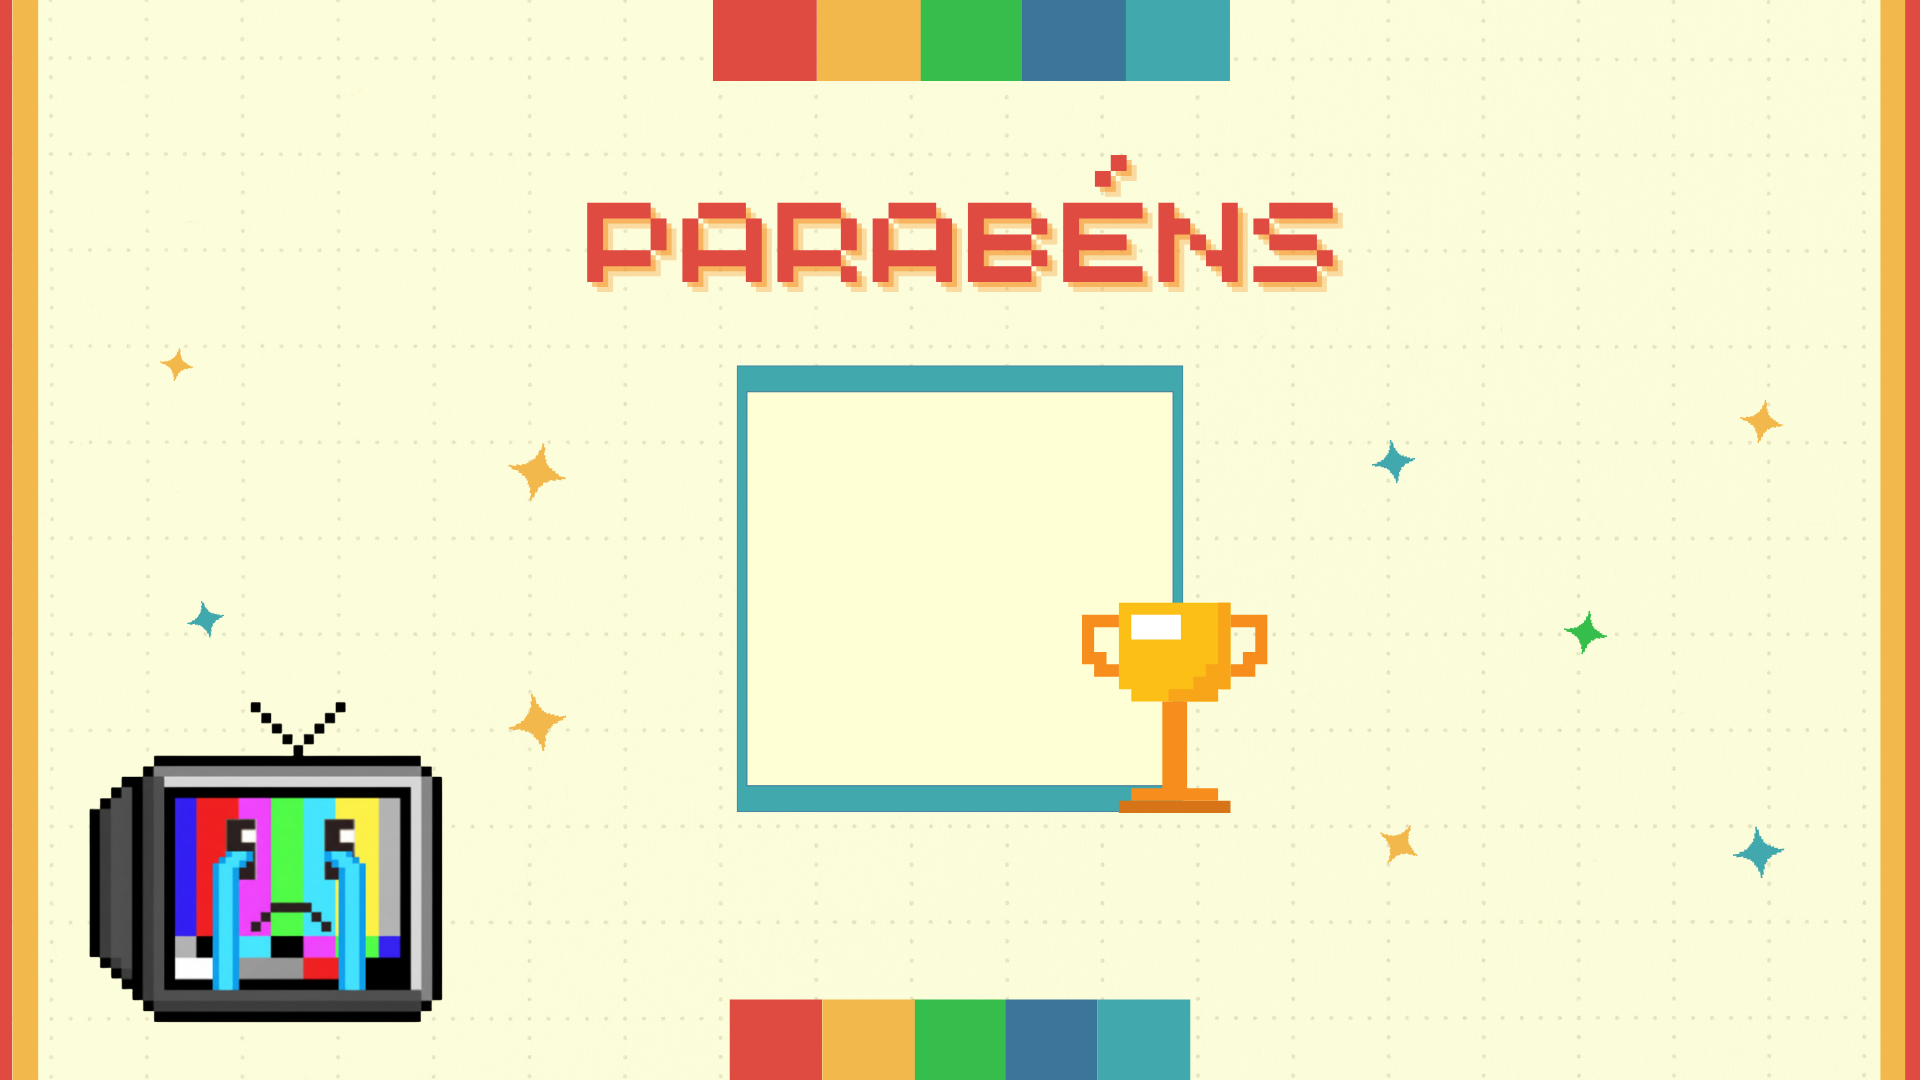
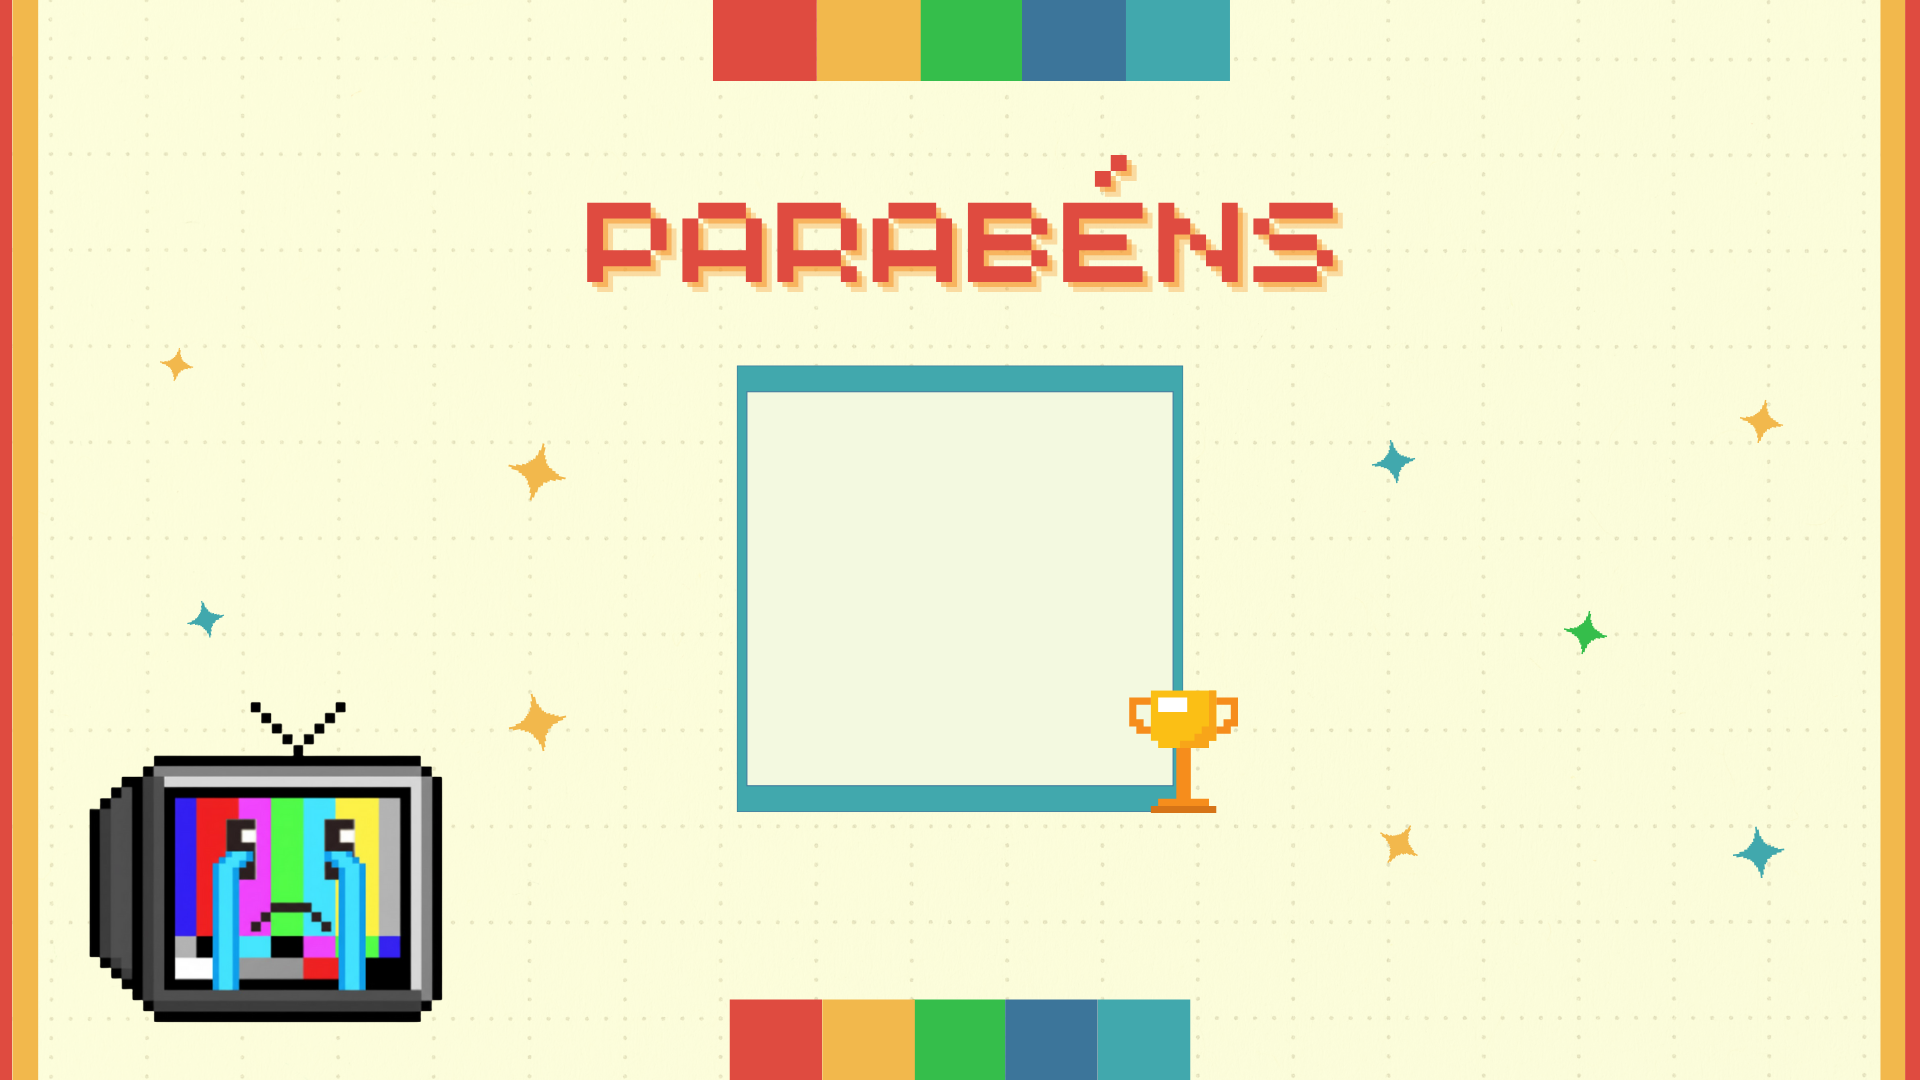
feat: Implementa Bot, placar e telas de fim de jogo
Adiciona um adversário Bot com memória funcional em todos os modos.

Cria um fluxo de telas de resultado para vitória, derrota e empate.

Passa os dados do jogador (nome e avatar) entre as telas.

Inclui logs de depuração no terminal.

Changed region(s): [[0.5625, 0.55, 0.6875, 0.7639]]

diff --git a/JogoPokemon.py b/JogoPokemon.py
@@ -4,13 +4,13 @@ import random
 import time
 import os
 from bot_memoria import BotMemoria
+from final import exibir_final 
 
 def exibir_jogo_pokemon(screen, nome_jogador, avatar_path):
     pygame.display.set_caption("Jogo Pokémon")
 
     pasta_cartas = os.path.join(os.path.dirname(__file__), 'CartasPokemon')
 
-    
     imagens_cartas_com_nomes = []
     for filename in os.listdir(pasta_cartas):
         if filename.endswith('.png') and 'costacartas' not in filename:
@@ -22,23 +22,19 @@ def exibir_jogo_pokemon(screen, nome_jogador, avatar_path):
         pygame.quit()
         sys.exit()
 
-    
     imagens_selecionadas = random.sample(imagens_cartas_com_nomes, 6)
     
     background = pygame.image.load('Imagens/fundoT.png')
     background = pygame.transform.smoothscale(background, screen.get_size())
     costas_carta = pygame.image.load(os.path.join(pasta_cartas, 'costacartas.png'))
 
-  
     cartas_com_ids = list(enumerate(imagens_selecionadas))
     
-   
     print("--- Mapeamento de Cartas da Partida ---")
     for id_carta, (nome_arquivo, _) in cartas_com_ids:
         print(f"ID {id_carta} -> {nome_arquivo}")
     print("------------------------------------")
 
-   
     imagens_para_jogo = [img for _, (_, img) in cartas_com_ids]
     cartas_para_duplicar = list(enumerate(imagens_para_jogo))
 
@@ -56,7 +52,6 @@ def exibir_jogo_pokemon(screen, nome_jogador, avatar_path):
     espaco_x = (largura_tela - (colunas * largura_carta_fixa)) // (colunas + 1)
     espaco_y = (altura_tela - (linhas * altura_carta_fixa)) // (linhas + 1)
 
- 
     cartas_viradas = []
     cartas_acertadas = []
     pares_jogador = 0
@@ -76,14 +71,7 @@ def exibir_jogo_pokemon(screen, nome_jogador, avatar_path):
                     screen.blit(cartas[index][1], (x, y))
                 else:
                     screen.blit(costas_carta, (x, y))
-        fonte_placar = pygame.font.Font('Fontes/arcade_gamer.ttf', 30)
-        placar_jogador = fonte_placar.render(f"Jogador: {pares_jogador}", True, (255,255,255))
-        placar_bot = fonte_placar.render(f"Bot: {pares_bot}", True, (255,255,255))
-        screen.blit(placar_jogador, (20, 20))
-        screen.blit(placar_bot, (largura_tela - placar_bot.get_width() - 20, 20))
 
-
-  
     while True:
         if turno_jogador:
             for event in pygame.event.get():
@@ -140,13 +128,21 @@ def exibir_jogo_pokemon(screen, nome_jogador, avatar_path):
         pygame.display.flip()
 
         if len(cartas_acertadas) == len(cartas):
-            elapsed_time = time.time() - start_time
-            print(f"Você venceu! Tempo total: {elapsed_time:.2f} segundos")
+            print(f"Fim do jogo!")
             print(f"Jogador: {pares_jogador} pares")
             print(f"Bot: {pares_bot} pares")
-            pygame.time.wait(3000)
-            pygame.quit()
-            sys.exit()
+
+            if pares_jogador > pares_bot:
+                nome_vencedor = nome_jogador
+                avatar_vencedor_path = avatar_path
+            elif pares_bot > pares_jogador:
+                nome_vencedor = "O melhor bot"
+                avatar_vencedor_path = None
+            else:
+                nome_vencedor = "Empate!"
+                avatar_vencedor_path = None
+
+            exibir_final(screen, nome_vencedor, avatar_vencedor_path)
 
 if __name__ == '__main__':
     pygame.init()

diff --git a/final.py b/final.py
@@ -6,37 +6,50 @@ def exibir_final(screen, nome_vencedor, avatar_vencedor_path):
 
     largura_tela, altura_tela = screen.get_size()
 
+  
+    if nome_vencedor == "O melhor bot":
+        caminho_background = 'Imagens/tela_derrota.png'
+    elif nome_vencedor == "Empate!":
+        caminho_background = 'Imagens/tela_empate.png'
+    else:
+        caminho_background = 'Imagens/parabens_final.png'
+
+    
     try:
-        background = pygame.image.load('Imagens/parabens_final.png')
+        background = pygame.image.load(caminho_background)
         background = pygame.transform.smoothscale(background, (largura_tela, altura_tela))
     except pygame.error:
-        print("Erro ao carregar a imagem 'Imagens/parabens_final.png'")
+        print(f"Erro ao carregar a imagem de fundo: {caminho_background}")
         background = pygame.Surface((largura_tela, altura_tela))
         background.fill((253, 246, 227))
 
     screen.blit(background, (0, 0))
 
-    if avatar_vencedor_path:
-        try:
-            avatar_img = pygame.image.load(avatar_vencedor_path)
-            tamanho_avatar = int(largura_tela * 0.18)
-            avatar_img = pygame.transform.scale(avatar_img, (tamanho_avatar, tamanho_avatar))
-            pos_avatar = (
-                int(largura_tela * 0.50) - avatar_img.get_width() // 2,
-                int(altura_tela * 0.5 + 40) - avatar_img.get_height() // 2
-            )
-            screen.blit(avatar_img, pos_avatar)
-        except pygame.error:
-            print(f"Erro ao carregar a imagem do avatar: {avatar_vencedor_path}")
+   
+    if nome_vencedor != "O melhor bot" and nome_vencedor != "Empate!":
+        
+        if avatar_vencedor_path:
+            try:
+                avatar_img = pygame.image.load(avatar_vencedor_path)
+                tamanho_avatar = int(largura_tela * 0.18)
+                avatar_img = pygame.transform.scale(avatar_img, (tamanho_avatar, tamanho_avatar))
+                pos_avatar = (
+                    int(largura_tela * 0.50) - avatar_img.get_width() // 2,
+                    int(altura_tela * 0.5 + 40) - avatar_img.get_height() // 2
+                )
+                screen.blit(avatar_img, pos_avatar)
+            except pygame.error:
+                print(f"Erro ao carregar a imagem do avatar: {avatar_vencedor_path}")
 
-    nome_fonte = pygame.font.Font('Fontes/arcade_gamer.ttf', int(altura_tela * 0.05))
-    cor_texto = "#41a8ad"
-    texto_nome = nome_fonte.render(nome_vencedor.upper(), True, cor_texto)
-
-    texto_rect = texto_nome.get_rect(center=(largura_tela // 2, int(altura_tela * 0.825)))
-    screen.blit(texto_nome, texto_rect)
-
+        
+        nome_fonte = pygame.font.Font('Fontes/arcade_gamer.ttf', int(altura_tela * 0.04))
+        cor_texto = "#DF4B40"
+        texto_nome = nome_fonte.render(nome_vencedor.upper(), True, cor_texto)
+        texto_rect = texto_nome.get_rect(center=(largura_tela // 2, int(altura_tela * 0.825)))
+        screen.blit(texto_nome, texto_rect)
+    
     pygame.display.flip()
+
 
     esperando = True
     while esperando:

diff --git a/JogoZelda.py b/JogoZelda.py
@@ -4,11 +4,11 @@ import random
 import time
 import os
 from bot_memoria import BotMemoria
+from final import exibir_final
 
 def exibir_jogo_zelda(screen, nome_jogador, avatar_path):
     pygame.display.set_caption("Jogo da Memória de Zelda")
 
- 
     pasta_cartas = os.path.join(os.path.dirname(__file__), 'CartasZelda')
 
     imagens_cartas_com_nomes = []
@@ -70,12 +70,6 @@ def exibir_jogo_zelda(screen, nome_jogador, avatar_path):
                     screen.blit(cartas[index][1], (x, y))
                 else:
                     screen.blit(costas_carta, (x, y))
-        fonte_placar = pygame.font.Font('Fontes/arcade_gamer.ttf', 30)
-        placar_jogador = fonte_placar.render(f"Jogador: {pares_jogador}", True, (255,255,255))
-        placar_bot = fonte_placar.render(f"Bot: {pares_bot}", True, (255,255,255))
-        screen.blit(placar_jogador, (20, 20))
-        screen.blit(placar_bot, (largura_tela - placar_bot.get_width() - 20, 20))
-
  
     while True:
         if turno_jogador:
@@ -133,13 +127,21 @@ def exibir_jogo_zelda(screen, nome_jogador, avatar_path):
         pygame.display.flip()
 
         if len(cartas_acertadas) == len(cartas):
-            elapsed_time = time.time() - start_time
-            print(f"Você venceu! Tempo total: {elapsed_time:.2f} segundos")
+            print(f"Fim do jogo!")
             print(f"Jogador: {pares_jogador} pares")
             print(f"Bot: {pares_bot} pares")
-            pygame.time.wait(3000)
-            pygame.quit()
-            sys.exit()
+
+            if pares_jogador > pares_bot:
+                nome_vencedor = nome_jogador
+                avatar_vencedor_path = avatar_path
+            elif pares_bot > pares_jogador:
+                nome_vencedor = "O melhor bot"
+                avatar_vencedor_path = None
+            else:
+                nome_vencedor = "Empate!"
+                avatar_vencedor_path = None
+
+            exibir_final(screen, nome_vencedor, avatar_vencedor_path)
 
 if __name__ == '__main__':
     pygame.init()

diff --git a/JogoMario.py b/JogoMario.py
@@ -72,11 +72,6 @@ def exibir_jogo_mario(screen, nome_jogador, avatar_path):
                     screen.blit(cartas[index][1], (x, y))
                 else:
                     screen.blit(costas_carta, (x, y))
-        fonte_placar = pygame.font.Font('Fontes/arcade_gamer.ttf', 30)
-        placar_jogador = fonte_placar.render(f"Jogador: {pares_jogador}", True, (255,255,255))
-        placar_bot = fonte_placar.render(f"Bot: {pares_bot}", True, (255,255,255))
-        screen.blit(placar_jogador, (20, 20))
-        screen.blit(placar_bot, (largura_tela - placar_bot.get_width() - 20, 20))
 
     while True:
         if turno_jogador:
@@ -142,8 +137,8 @@ def exibir_jogo_mario(screen, nome_jogador, avatar_path):
                 nome_vencedor = nome_jogador
                 avatar_vencedor_path = avatar_path
             elif pares_bot > pares_jogador:
-                nome_vencedor = "Bot"
-                avatar_vencedor_path = 'Imagens/bot_avatar.png'
+                nome_vencedor = "O melhor bot"
+                avatar_vencedor_path = None 
             else:
                 nome_vencedor = "Empate!"
                 avatar_vencedor_path = None
